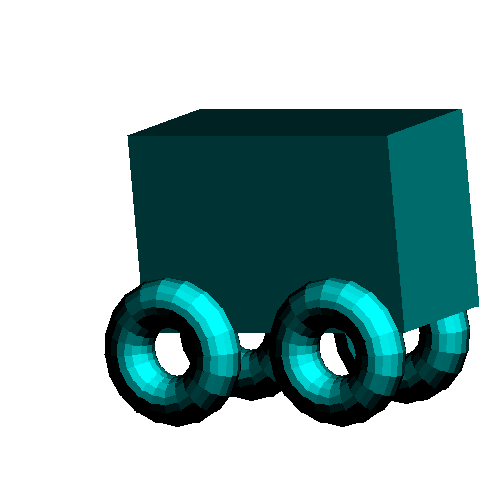
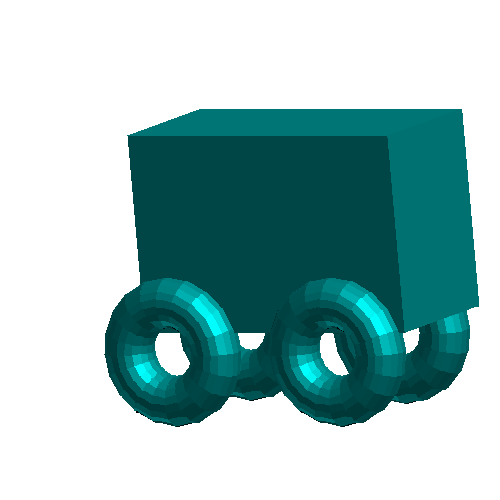
gr8

Changed region(s): [[0.21, 0.54, 0.96, 0.87], [0.27, 0.21, 0.9, 0.27]]

diff --git a/gmath.py b/gmath.py
@@ -63,7 +63,7 @@ def calculate_specular(light, sreflect, view, normal):
     dot = dot_product(reflection,view)
     #print("dot")
     #print(dot)
-    return [light[1][i] * sreflect[i] * dot for i in range(0,3)]
+    return [light[1][i] * sreflect[i] * math.pow(dot,4) for i in range(0,3)]
 
 def limit_color(color):
     k = 0

diff --git a/main.py b/main.py
@@ -40,7 +40,7 @@ ident(t)
 csystems = [ t ]
 
 
-#parse_file( 'script', edges, polygons, csystems, screen, zbuffer, color, view, ambient, light, areflect, dreflect, sreflect)
+parse_file( 'script', edges, polygons, csystems, screen, zbuffer, color, view, ambient, light, areflect, dreflect, sreflect)
 
 
 # lighting values
